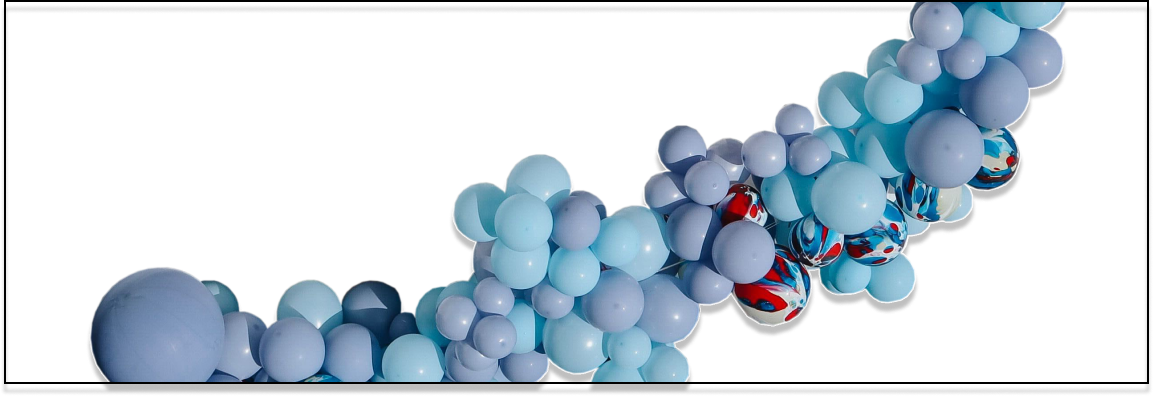
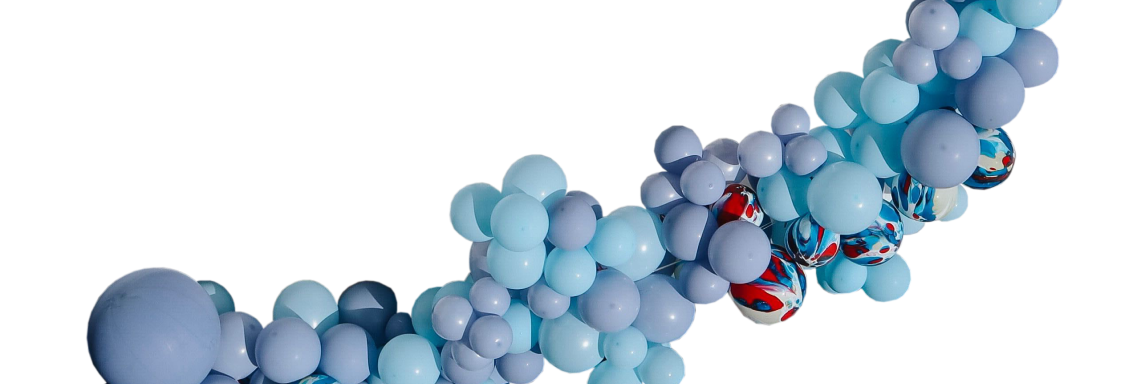
WIP

diff --git a/src/Components/MobileNav.js b/src/Components/MobileNav.js
@@ -1,0 +1,86 @@
+import React, { useState } from "react";
+import { Link } from "react-router-dom";
+import logo from "./../Media/Logo.svg";
+import { FaBars } from "react-icons/fa";
+
+export const MobileNav = () => {
+  const [isOpen, setIsOpen] = useState(false);
+
+  return (
+    <div
+      className={`${
+        isOpen ? "fixed top-0 left-0 w-full h-full bg-[#F4ECD6] z-50" : ""
+      }`}
+    >
+      <div className="bg-[#F4ECD6]  w-full">
+        <nav className="container mx-auto flex justify-between  bg-[#F4ECD6]">
+          <img src={logo} alt="Logo" className="lg:h-36 lg:m-8" />
+          <div className="block  mt-2 mr-2">
+            <button
+              onClick={() => setIsOpen(!isOpen)}
+              className="flex items-center m-2 px-5 py-3  text-beige-200"
+              style={{backgroundColor:'#F4ECD6'}}
+            >
+              <FaBars size={40} style={{color:'black'}} />
+            </button>
+          </div>
+
+          <ul
+            className={`text-right font-light text-2xl p-4 inline-flex ${
+              isOpen ? "" : "hidden lg:flex justify-end mx-22"
+            } lg:hidden`}
+            style={{
+              position: "absolute",
+              top: "0",
+              left: "0",
+              width: "100%",
+              height: "100%",
+              backgroundColor: "#F4ECD6",
+              zIndex: "5",
+              display: isOpen ? "block" : "none",
+            }}
+          >
+            <div className="grid grid-cols-2">
+              <div className="gird col-start-2">
+                <Link onClick={() => setIsOpen(false)} to="/">
+                  <li className="m-4  hover:text-stone-400">
+                    <a href="home">HOME</a>
+                  </li>
+                </Link>
+                <li className="m-4 hover:text-stone-400 ">
+                  <Link onClick={() => setIsOpen(false)} to="/rentals">
+                    <a href="rentals">RENTALS</a>
+                  </Link>
+                </li>
+                <li className="m-4 hover:text-stone-400 ">
+                  <a href="extra">EXTRAS</a>
+                </li>
+                <li className="m-4 hover:text-stone-400 ">
+                  <a href="pop-ups">POP-UPS</a>
+                </li>
+                <li className="m-4 hover:text-stone-400 ">
+                  <Link onClick={() => setIsOpen(false)} to="/partners">
+                    <a href="partners">PARTNERS</a>
+                  </Link>
+                </li>
+                <li className="m-4 hover:text-stone-400 ">
+                  <Link to="/checkout" onClick={() => setIsOpen(false)}>
+                    {" "}
+                    <a href="book">BOOK</a>
+                  </Link>
+                </li>
+              </div>
+              <div className="grid col-start-1 absolute top-0">
+                <li className="m-4 hover:text-slate-400 text-md ">
+                  <button onClick={() => setIsOpen(false)} className='text-md'
+                  style={{backgroundColor: '#F4ECD6', fontSize:'2rem'}}>x</button>
+                </li>
+              </div>
+            </div>
+            <div></div>
+          </ul>
+        </nav>
+      </div>
+    </div>
+  );
+};

diff --git a/src/Components/BalloonBox.js b/src/Components/BalloonBox.js
@@ -1,22 +1,22 @@
-import React from 'react';
-import balloonImage from './../Media/BlueArch.png';
+import React from "react";
+import balloonImage from "./../Media/BlueArch.png";
 
 export const BalloonBox = () => {
-  return (
-    <div>
-     
-        <div className="relative">
-          <img
-            src={balloonImage}
-            alt="Balloon Arrangement"
-            className="w-full h-full object-cover"
-          />
-          
-          <h4 className="absolute top-1/2 left-1/2 transform -translate-x-1/2 -translate-y-1/2 text-center p-2 z-10 text-white Lemon-Font2 text-[1rem2]">
-            Browse collection of luxury balloon arrangements. Select the arrangement that best suits your needs and preferences.Choose your preferred color scheme, theme, and any additional customizations you would like to add.
-          </h4>
+    return (
+      <div className="flex flex-col justify-center items-center ">
+        <div className="border-4 border-black w-8/12">
+          <div className="relative">
+            <img
+              src={balloonImage}
+              alt="Balloon Arrangement"
+              className="w-full h-full object-fill"
+            />
+         
+            <h4 className="absolute top-1/2 left-1/2 transform -translate-x-1/2 -translate-y-1/2 text-center p-2 z-10 text-white Lemon-Font2 text-[1rem2] invisible lg:visable">
+              Browse collection of luxury balloon arrangements. Select the arrangement that best suits your needs and preferences.Choose your preferred color scheme, theme, and any additional customizations you would like to add.
+            </h4>
+          </div>
         </div>
-    
-    </div>
-  );
-};
+      </div>
+    );
+  };

diff --git a/src/App.js b/src/App.js
@@ -4,22 +4,30 @@ import { Book } from "./Pages/Book";
 import { Gallery } from "./Pages/Gallery";
 import { Home } from "./Pages/Home";
 import { NavBar } from "./Components/NavBar";
+import { MobileNav } from "./Components/MobileNav";
 
 function App() {
   return (
     <div>
-    <BrowserRouter>
-    <Routes>
-      <Route path="/home" element={
-        <div>
-      <NavBar />
-      <Home />
-      </div>
-      } />
-      <Route path="/gallery" element={<Gallery />} />
-      <Route path="/book" element={<Book />} />
-      </Routes>
-    </BrowserRouter>
+      <BrowserRouter>
+        <Routes>
+          <Route
+            path="/home"
+            element={
+              <div>
+                <div className="block lg:hidden">
+                <MobileNav /></div>
+                <div className="hidden lg:block">
+                  <NavBar />
+                </div>
+                <Home />
+              </div>
+            }
+          />
+          <Route path="/gallery" element={<Gallery />} />
+          <Route path="/book" element={<Book />} />
+        </Routes>
+      </BrowserRouter>
     </div>
   );
 }

diff --git a/src/Components/Hero.js b/src/Components/Hero.js
@@ -4,7 +4,7 @@ import TanArch from "./../Media/TanArch.png";
 export const Hero = () => {
   return (
 
-         <div className="flex flex-row justify-around ">
+         <div className="flex flex-row  justify-around ">
         <div className="flex flex-col">
           <h1 className="align-middle my-6 w-96 Lemon-Font">
             Don't let your event fall flat, make it pop with
@@ -29,9 +29,7 @@ export const Hero = () => {
             <span class="button_top"> LEARN MORE</span>
           </button>
         </div>
-        <div>
-          <img alt='balloon arch' src={TanArch} className="h-full w-full " />
-        </div>
+        
       </div>
   )
 }

diff --git a/src/App.css b/src/App.css
@@ -59,11 +59,15 @@
   font-size: 3rem;
   padding: 0.5rem;
 }
+
+/* remove this block */
 .Lemon-Font {
   font-family: "GeneralText";
   font-size: 2.5rem;
   padding: 0.5rem;
 }
+
+
 .Lemon-Font2 {
   font-family: "GeneralText";
   font-size: 1.25rem;
@@ -72,7 +76,18 @@
 .Retro-Font {
   font-family: "RetroText";
 }
+@media only screen and (max-width: 768px) {
+.Lemon-Font{
+  font-size: 1.5rem;
+}
+.Lemon-Font2{
+  font-size: 1rem;
+}
+.Balloon-Font{
+  font-size: 1rem;
+}
 
+}
 /* Cta Button */
 button {
   /* Variables */
